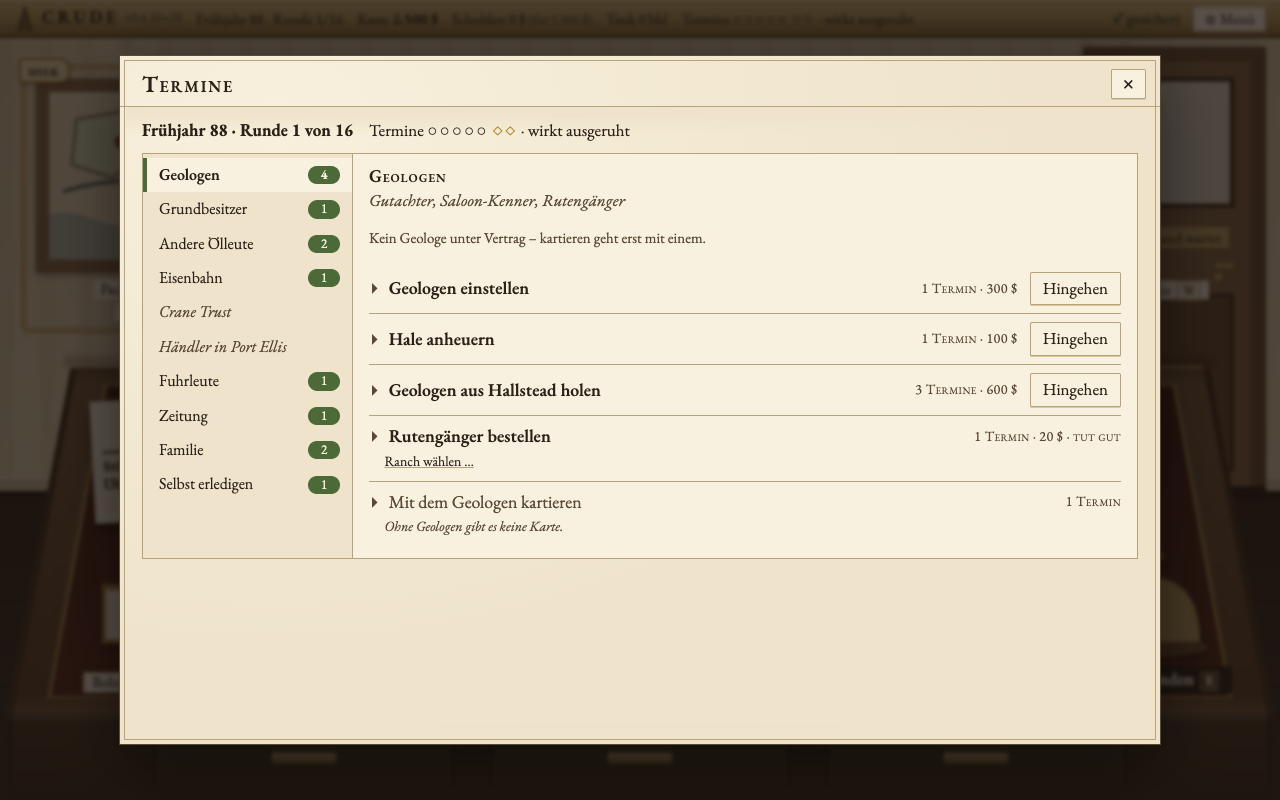
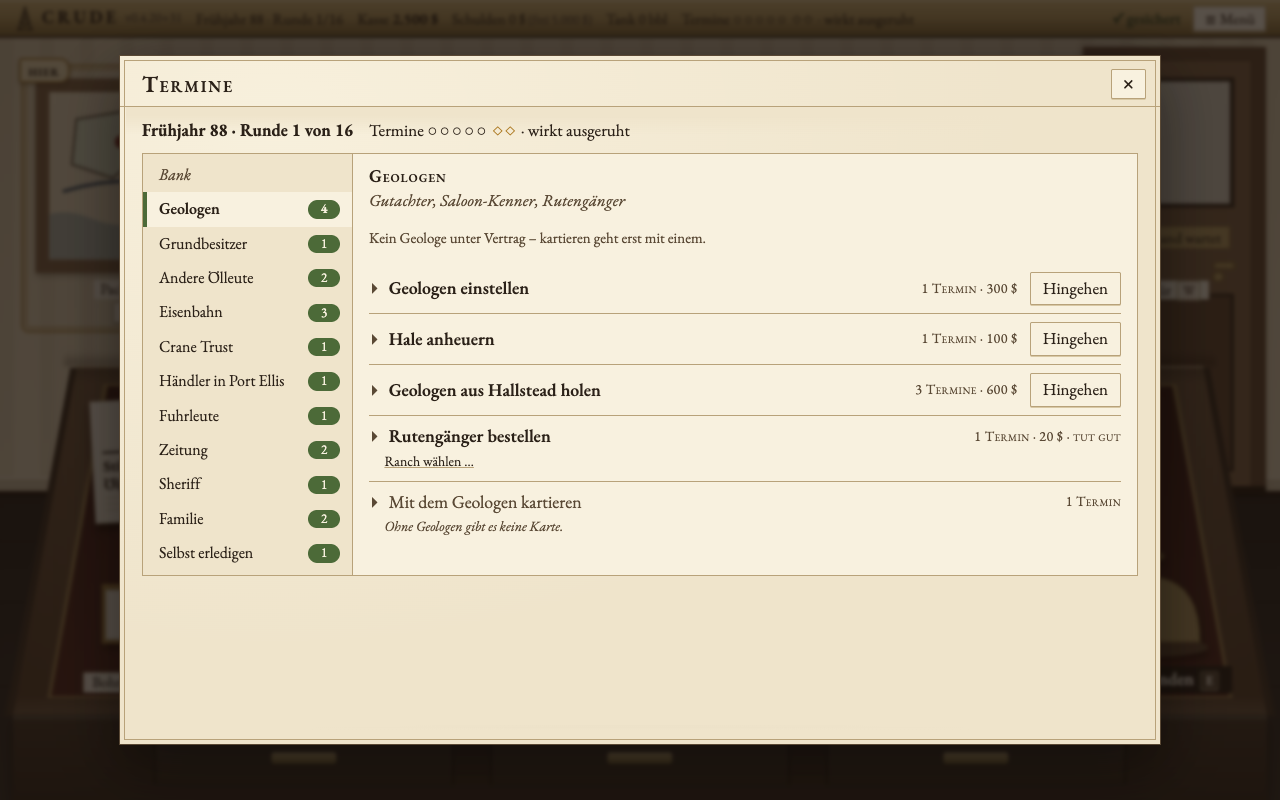
0.4.20+32 Deals im Adressbuch: elf neue Karten in Kapitel 1, Bot-Läufe

diff --git a/tools/screenshots.ts b/tools/screenshots.ts
@@ -293,6 +293,8 @@ const bilder: Bild[] = [
   { name: '35-planungsbrett', state: start, prefs: { 'crude.reiter.termine': 'geologen' }, tasten: ['t'] },
   // Etappe 2: Reiter Markt und Fracht, Verhandlung mit Thorne, Förderbremse auf der Pinnwand.
   { name: '36-brett-markt', state: mitBremse, prefs: { 'crude.reiter.termine': 'oelleute' }, tasten: ['t'] },
+  // 0.4.20+32: neue Deals – Bank und Eisenbahn mit Festtarif/Kontingent.
+  { name: '37b-adressbuch-bank', state: mitBremse, prefs: { 'crude.reiter.termine': 'bank' }, tasten: ['t'] },
   { name: '37-brett-fracht', state: mitBremse, prefs: { 'crude.reiter.termine': 'eisenbahn' }, tasten: ['t'], dann: `document.querySelector('.angebot-name')?.click()`, warte: 400 },
   { name: '38-fracht-thorne', state: mitBremse, prefs: { 'crude.reiter.fracht': 'pipeline' }, tasten: ['f'] },
   { name: '39-pinnwand-bremse', state: mitBremse, dann: KLICK('.objekt-konkurrenz'), warte: 600 },

diff --git a/docs/botlaeufe.md b/docs/botlaeufe.md
@@ -1,6 +1,6 @@
 # Bot-Läufe
 
-Stand: 2026-10-06 · Version 0.4.20+27
+Stand: 2026-10-06 · Version 0.4.20+31
 
 - Partien je Strategie: 1.000
 - Seeds: `bot-0` bis `bot-999` (für jede Strategie dieselben)
@@ -9,16 +9,16 @@ Stand: 2026-10-06 · Version 0.4.20+27
 
 | Strategie | Partien | Bankrottquote | Kapitelziel | Ø Imperiumswert | Siegquote | Ø Bullard-Kasse | Ø Bullard-Quellen | Ø Termine | Ø Spuren für Delaney (Partien mit Spur) |
 | --- | ---: | ---: | ---: | ---: | ---: | ---: | ---: | ---: | ---: |
-| vorsichtig | 1.000 | 0,0 % | 53,4 % | 103.383 $ | 22,8 % | 7.666 $ | 6,0 | 5,0 | 1,52 (100,0 %) |
-| gierig | 1.000 | 10,4 % | 67,0 % | 98.199 $ | 19,4 % | 12.845 $ | 5,5 | 5,0 | 4,99 (100,0 %) |
-| ausgewogen | 1.000 | 2,9 % | 58,5 % | 116.208 $ | 23,4 % | 8.515 $ | 6,1 | 5,0 | 1,20 (35,4 %) |
-| betruegerisch | 1.000 | 0,2 % | 64,7 % | 129.198 $ | 34,3 % | 12.820 $ | 6,2 | 5,0 | 8,48 (100,0 %) |
-| zufaellig | 1.000 | 11,9 % | 0,2 % | 978 $ | 0,0 % | 27.417 $ | 8,5 | 5,0 | 5,05 (100,0 %) |
+| vorsichtig | 1.000 | 0,1 % | 52,0 % | 102.997 $ | 25,0 % | 7.811 $ | 6,1 | 5,0 | 1,83 (100,0 %) |
+| gierig | 1.000 | 9,2 % | 65,3 % | 97.572 $ | 20,4 % | 12.582 $ | 5,6 | 5,0 | 4,99 (100,0 %) |
+| ausgewogen | 1.000 | 2,0 % | 55,1 % | 109.812 $ | 20,8 % | 8.678 $ | 6,2 | 5,0 | 1,33 (37,9 %) |
+| betruegerisch | 1.000 | 0,2 % | 63,6 % | 126.199 $ | 33,7 % | 12.821 $ | 6,2 | 4,8 | 8,22 (100,0 %) |
+| zufaellig | 1.000 | 11,9 % | 0,2 % | 979 $ | 0,0 % | 27.402 $ | 8,5 | 5,0 | 5,05 (100,0 %) |
 
 - **vorsichtig:** bohrt und kauft nur, wenn danach noch die Rücklage in der Kasse bleibt, kauft nur Optionen, deren Bonus er danach auch zahlen kann, nimmt nie selbst einen Kredit; tiefer (höchstens bis Stufe 2) nur, wenn der Geologe mindestens das 1,5-Fache der Gewinnschwelle gibt.
 - **gierig:** bohrt jede Pacht, bohrt tiefer schon ab dem 0,6-Fachen der Gewinnschwelle (gibt auf, wenn auch ein Kredit nicht mehr reicht), pachtet die beste bezahlbare Prognose, solange Kasse und Bankrahmen reichen und höchstens so viele Pachten ungebohrt sind, wie in balance.yaml steht; leiht fehlendes Geld und behält Bargeld für den Verzögerungszins.
 - **ausgewogen (Standard-Bot):** pachtet die beste Prognose ab 40,0 % Fundchance, bohrt tiefer bis Stufe 3, wenn der Geologe mindestens das 1-Fache der Gewinnschwelle gibt (Spielspaß K1: „lohnt ab“ im Ranch-Fenster), behält 300 $ Rücklage und leiht, aber höchstens 50,0 % des Bankrahmens.
-- **betrügerisch (GDD §17):** bohrt, pachtet, transportiert und baut aus wie der Standard-Bot, zieht aber jeden schmutzigen Hebel: Förderbremse mit Organisatoren-Klausel – und verkauft sie an Crane, sobald dessen Angebot reicht (Verrat) –, Gerücht „Quellen versiegen“, Thornes Sondertarif mit Bluff, Händler-Liefervertrag nie; Karten in balance.yaml bots.plans.cheat {"cartel":true,"contract":false,"rumour":true,"crane":true,"thorne":true,"brennan":false,"pool":true,"bluff":true,"betray":true}. Bei Briefen zählt ihm jeder Schwerepunkt einer Spur für Delaney 300 $ (× Faktor der Briefe) – er nimmt die schmutzige Antwort, wenn sie nicht klar weniger bringt.
+- **betrügerisch (GDD §17):** bohrt, pachtet, transportiert und baut aus wie der Standard-Bot, zieht aber jeden schmutzigen Hebel: Förderbremse mit Organisatoren-Klausel – und verkauft sie an Crane, sobald dessen Angebot reicht (Verrat) –, Gerücht „Quellen versiegen“, Thornes Sondertarif mit Bluff, Händler-Liefervertrag nie; Karten in balance.yaml bots.plans.cheat {"cartel":true,"contract":false,"rumour":true,"crane":true,"thorne":true,"brennan":false,"pool":true,"bluff":true,"betray":true,"guard":true,"bank":true,"quota":true,"advance":false,"royalty":true,"interview":false}. Bei Briefen zählt ihm jeder Schwerepunkt einer Spur für Delaney 300 $ (× Faktor der Briefe) – er nimmt die schmutzige Antwort, wenn sie nicht klar weniger bringt.
 - **zufällig:** wählt jede Runde einige erlaubte Aktionen per Zufall und beantwortet Ereignisse zufällig.
 - **Spuren für Delaney:** Ø Schwere der Merkzeichen aus balance.yaml investigation.traces am Kapitelende (Moss' Papier, Silas betrogen, Silas als Kronzeuge, gekaufter Courier-Bericht, Vales Geld, Thornes Exklusivvertrag), in Klammern der Anteil der Partien mit mindestens einer Spur. Die ehrlichen Bots wiegen jeden Schwerepunkt als Risiko (bots.events.*.traceCost: vorsichtig 2.000 $, gierig 200 $, ausgewogen 1.000 $ je Punkt, × Faktor der Briefe) und nehmen eine schmutzige Antwort nur, wenn sie klar mehr bringt.
 - **Erkundung (Etappe 1):** Die planenden Bots reiten vor den Briefen übers Land (Karte „Übers Land reiten“), solange sie zu wenige bezahlbare freie Ranches mit guter Prognose kennen (balance.yaml bots.explore). Prognosen gibt es nur, wo Jacob etwas weiß.
@@ -33,15 +33,15 @@ Anteil an allen verkauften Barrel (gesamt und je Strategie). Erlös = was nach F
 
 | Weg | Anteil Barrel | vorsichtig | gierig | ausgewogen | betruegerisch | zufaellig | Ø Erlös je bbl | Ø Anlagen/Fixkosten je bbl | Ø Gewinn je bbl |
 | --- | ---: | ---: | ---: | ---: | ---: | ---: | ---: | ---: | ---: |
-| Mietfuhrwerk | 6,5 % | 0,6 % | 18,5 % | 1,8 % | 2,6 % | 14,1 % | 0,25 $ | 0,00 $ | 0,25 $ |
-| Bahn (Thorne) | 46,3 % | 77,2 % | 22,2 % | 27,5 % | 63,5 % | 74,6 % | 0,38 $ | 0,00 $ | 0,37 $ |
-| Eigene Fuhrwerke | 25,8 % | 16,7 % | 18,5 % | 39,2 % | 29,6 % | 11,2 % | 0,51 $ | 0,14 $ | 0,37 $ |
-| Pipeline | 21,4 % | 5,4 % | 40,8 % | 31,5 % | 4,2 % | 0,0 % | 0,51 $ | 0,06 $ | 0,45 $ |
-| davon an den Händler | 14,2 % | 30,7 % | 14,2 % | 6,4 % | 6,8 % | 23,6 % | 0,58 $ | 0,04 $ | 0,54 $ |
+| Mietfuhrwerk | 7,3 % | 0,6 % | 19,2 % | 3,2 % | 2,9 % | 13,8 % | 0,24 $ | 0,00 $ | 0,24 $ |
+| Bahn (Thorne) | 46,2 % | 78,2 % | 22,5 % | 27,6 % | 60,4 % | 75,0 % | 0,41 $ | 0,00 $ | 0,41 $ |
+| Eigene Fuhrwerke | 28,7 % | 16,5 % | 19,1 % | 50,4 % | 32,5 % | 11,2 % | 0,52 $ | 0,14 $ | 0,38 $ |
+| Pipeline | 17,8 % | 4,6 % | 39,3 % | 18,8 % | 4,2 % | 0,0 % | 0,51 $ | 0,06 $ | 0,45 $ |
+| davon an den Händler | 14,7 % | 31,0 % | 14,3 % | 7,3 % | 6,8 % | 23,5 % | 0,60 $ | 0,04 $ | 0,56 $ |
 
-Pipeline lief in: vorsichtig 14,3 % (mit Kapitelziel 24,2 %), gierig 66,8 % (mit Kapitelziel 81,8 %), ausgewogen 51,4 % (mit Kapitelziel 67,4 %), betruegerisch 10,9 % (mit Kapitelziel 14,1 %), zufaellig 0,0 % (mit Kapitelziel 0,0 %).
+Pipeline lief in: vorsichtig 11,5 % (mit Kapitelziel 20,0 %), gierig 64,7 % (mit Kapitelziel 80,7 %), ausgewogen 33,1 % (mit Kapitelziel 42,8 %), betruegerisch 9,6 % (mit Kapitelziel 12,6 %), zufaellig 0,0 % (mit Kapitelziel 0,0 %).
 
-Feldkauf (Ø je Partie, balance.yaml bots.buyout): vorsichtig 0,00 Angebote, 0,00 Käufe; gierig 1,17 Angebote, 0,91 Käufe; ausgewogen 0,20 Angebote, 0,14 Käufe; betruegerisch 0,17 Angebote, 0,11 Käufe; zufaellig 0,00 Angebote, 0,00 Käufe.
+Feldkauf (Ø je Partie, balance.yaml bots.buyout): vorsichtig 0,00 Angebote, 0,00 Käufe; gierig 1,00 Angebote, 0,77 Käufe; ausgewogen 0,14 Angebote, 0,09 Käufe; betruegerisch 0,19 Angebote, 0,13 Käufe; zufaellig 0,00 Angebote, 0,00 Käufe.
 
 - **Transport-Charakter** (balance.yaml bots.transport): vorsichtig {"trader":"never","teams":"overflow","tanks":true,"pipelinePayback":2,"thorne":"exclusive","guards":"always","holdShare":0,"margin":true}; gierig {"trader":"always","teams":"overflow","tanks":true,"pipelinePayback":1,"thorne":"refuse","guards":"never","holdShare":0.5,"margin":false}; ausgewogen {"trader":"calc","teams":"cheaper","tanks":true,"pipelinePayback":1.5,"thorne":"calc","guards":"enemies","holdShare":0,"margin":true}; betrügerisch wie ausgewogen; zufällig: mit 15,0 % je Runde eine zufällige Anschaffung, verkauft zufällig auch an den Händler.
 
@@ -51,15 +51,15 @@ Je Partie: Ø höchste Zahl Türme zugleich (Silas' Turm mitgezählt), Ø Quelle
 
 | Bot | Ø Bohrtürme (höchstens zugleich) | Ø Pumpen | Ø weitere Bohrlöcher | Anteil ausgebauter Quellen | Ø Imperiumswert | Bankrottquote |
 | --- | ---: | ---: | ---: | ---: | ---: | ---: |
-| vorsichtig | 1,00 | 0,06 | 1,09 | 20,8 % | 103.383 $ | 0,0 % |
-| gierig | 1,89 | 0,41 | 2,97 | 42,5 % | 98.199 $ | 10,4 % |
-| ausgewogen | 1,00 | 0,54 | 1,04 | 26,6 % | 116.208 $ | 2,9 % |
-| betruegerisch | 1,00 | 0,56 | 0,89 | 22,8 % | 129.198 $ | 0,2 % |
-| zufaellig | 1,00 | 0,01 | 0,01 | 27,1 % | 978 $ | 11,9 % |
-| ausgewogen, nie ausbauen | 1,00 | 0,00 | 0,00 | 0,0 % | 101.197 $ | 1,4 % |
-| ausgewogen, alles ausbauen | 2,31 | 5,59 | 3,62 | 94,4 % | 29.551 $ | 55,5 % |
+| vorsichtig | 1,00 | 0,05 | 1,13 | 22,0 % | 102.997 $ | 0,1 % |
+| gierig | 1,89 | 0,40 | 2,92 | 43,0 % | 97.572 $ | 9,2 % |
+| ausgewogen | 1,00 | 0,46 | 1,10 | 27,1 % | 109.812 $ | 2,0 % |
+| betruegerisch | 1,00 | 0,56 | 0,89 | 23,0 % | 126.199 $ | 0,2 % |
+| zufaellig | 1,00 | 0,01 | 0,01 | 27,1 % | 979 $ | 11,9 % |
+| ausgewogen, nie ausbauen | 1,00 | 0,00 | 0,00 | 0,0 % | 96.358 $ | 0,9 % |
+| ausgewogen, alles ausbauen | 2,28 | 5,27 | 3,42 | 93,7 % | 27.407 $ | 55,6 % |
 
-„Alles ausbauen“ schlägt den Standard-Bot in 13,2 %, „nie ausbauen“ in 39,0 % der Seeds mit unterschiedlichem Ausgang.
+„Alles ausbauen“ schlägt den Standard-Bot in 12,8 %, „nie ausbauen“ in 40,0 % der Seeds mit unterschiedlichem Ausgang.
 
 - **Ausbau-Charakter** (balance.yaml bots.invest): vorsichtig {"pumpPayback":2,"wellPayback":3,"rigs":1,"rent":false,"steam":false,"rods":true}; gierig {"pumpPayback":2,"wellPayback":4,"rigs":2,"rent":true,"steam":true,"rods":false}; ausgewogen {"pumpPayback":3,"wellPayback":4,"rigs":1,"rent":false,"steam":true,"rods":true}; betrügerisch wie ausgewogen.
 
@@ -69,9 +69,9 @@ Bankrottquote je Strategie, getrennt nach Seeds, in deren Welt während des Kapi
 
 | Strategie | Seeds mit Kreditkrise | Bankrottquote dort | Seeds ohne | Bankrottquote dort |
 | --- | ---: | ---: | ---: | ---: |
-| vorsichtig | 81 | 0,0 % | 919 | 0,0 % |
-| gierig | 81 | 19,8 % | 919 | 9,6 % |
-| ausgewogen | 81 | 8,6 % | 919 | 2,4 % |
+| vorsichtig | 81 | 1,2 % | 919 | 0,0 % |
+| gierig | 81 | 12,3 % | 919 | 8,9 % |
+| ausgewogen | 81 | 8,6 % | 919 | 1,4 % |
 | betruegerisch | 81 | 2,5 % | 919 | 0,0 % |
 | zufaellig | 81 | 9,9 % | 919 | 12,1 % |
 
@@ -81,20 +81,20 @@ Bankrottquote je Strategie, getrennt nach Seeds, in deren Welt während des Kapi
 
 | Haltung | Sprünge | Ø Imperium | p10 | Median | p90 | Ø Kasse | Förderung nachher ÷ vorher (Median) | Ø Schulden | pleite | Kreditkündigung | Notverkauf | Nachbarbezirk |
 | --- | ---: | ---: | ---: | ---: | ---: | ---: | ---: | ---: | ---: | ---: | ---: | ---: |
-| wagemutig | 900 | 363.859 $ | 0 $ | 343.778 $ | 710.687 $ | 273.042 $ | 0,84 | 22.424 $ | 10,0 % | 26,7 % | 11,3 % | 85,2 % |
-| ausgewogen | 900 | 341.137 $ | 0 $ | 329.615 $ | 681.144 $ | 247.442 $ | 0,65 | 4.626 $ | 7,0 % | 18,4 % | 8,0 % | 78,7 % |
-| vorsichtig | 900 | 272.287 $ | 0 $ | 201.185 $ | 645.703 $ | 201.920 $ | 0,25 | 1.193 $ | 6,0 % | 9,8 % | 7,3 % | 59,6 % |
+| wagemutig | 900 | 339.213 $ | 0 $ | 331.980 $ | 667.757 $ | 251.783 $ | 0,86 | 20.848 $ | 11,7 % | 28,1 % | 13,4 % | 81,4 % |
+| ausgewogen | 900 | 317.729 $ | 0 $ | 311.335 $ | 653.722 $ | 227.904 $ | 0,64 | 4.296 $ | 8,7 % | 18,8 % | 10,0 % | 76,1 % |
+| vorsichtig | 900 | 249.296 $ | 0 $ | 167.469 $ | 593.713 $ | 183.503 $ | 0,20 | 1.316 $ | 8,3 % | 11,8 % | 10,7 % | 54,7 % |
 
 | Familie | Ø Imperium | Ø Ruth | mit Clara |
 | --- | ---: | ---: | ---: |
-| die Firma zuerst | 400.504 $ | 64 | 98,0 % |
-| wie bisher | 357.011 $ | 90 | 99,4 % |
-| viel Zeit zu Hause | 219.768 $ | 100 | 99,9 % |
+| die Firma zuerst | 374.241 $ | 64 | 96,4 % |
+| wie bisher | 330.868 $ | 90 | 98,6 % |
+| viel Zeit zu Hause | 201.129 $ | 100 | 99,6 % |
 
 | Haltung | Seeds mit Bankpanik-Weiche | Ø Pump − Tilgen | Pump schlechter | pleite Pump / Tilgen | Notverkauf Pump / Tilgen |
 | --- | ---: | ---: | ---: | ---: | ---: |
-| wagemutig | 38 | -44.669 $ | 81,6 % | 13,2 % / 10,5 % | 15,8 % / 13,2 % |
-| ausgewogen | 38 | -32.808 $ | 81,6 % | 7,9 % / 5,3 % | 10,5 % / 10,5 % |
+| wagemutig | 40 | -32.774 $ | 77,5 % | 10,0 % / 10,0 % | 15,0 % / 12,5 % |
+| ausgewogen | 40 | -20.513 $ | 70,0 % | 7,5 % / 7,5 % | 10,0 % / 10,0 % |
 
 ## Zielwerte Kapitel 1
 
@@ -102,21 +102,21 @@ Toleranzbereiche stehen in balance.yaml unter bots.targets; gemessen wird in src
 
 | Kennzahl | Ziel (Quelle) | Toleranz | Ist | im Rahmen |
 | --- | --- | ---: | ---: | :---: |
-| Höchste Siegquote einer Strategie | GDD §17: keine Einzelstrategie gewinnt in mehr als 40 % | 0,0 % – 40,0 % | 34,3 % | ja |
-| Pleitequote Standard-Bot (ausgewogen) | Kapitel 1 ist der Einstieg (GDD §17: Kapitel 4 übersteht er in 55–70 %) | 0,0 % – 15,0 % | 2,9 % | ja |
-| Pleitequote gierig | GDD §15: wer im Boom zu viele Schulden macht, stirbt (4.20: in der Kreditkrise kündigt die Bank) | 3,0 % – 45,0 % | 10,4 % | ja |
-| Ø Imperium vorsichtig ÷ bester Ø der Mutigeren | GDD §15: wer nie Schulden macht, wird überholt (unter 1) | 0,00 – 0,95 | 0,89 | ja |
-| Kapitelziel Standard-Bot (ausgewogen) | Kapitelprüfung erreichbar, aber nicht geschenkt | 20,0 % – 70,0 % | 58,5 % | ja |
-| Kleine Funde mit 50–500 bbl/Tag | GDD §15: Anfangsrate 50–500 bbl/Tag | 90,0 % – 100,0 % | 93,9 % | ja |
-| Ø Anfangsrate Gusher ÷ kleiner Fund | GDD §15: Gusher deutlich mehr | 2,00 – 20,00 | 4,91 | ja |
-| Gemessener Rückgang je Quartal | GDD §15: 8–15 % | 8,0 % – 15,0 % | 14,0 % | ja |
+| Höchste Siegquote einer Strategie | GDD §17: keine Einzelstrategie gewinnt in mehr als 40 % | 0,0 % – 40,0 % | 33,7 % | ja |
+| Pleitequote Standard-Bot (ausgewogen) | Kapitel 1 ist der Einstieg (GDD §17: Kapitel 4 übersteht er in 55–70 %) | 0,0 % – 15,0 % | 2,0 % | ja |
+| Pleitequote gierig | GDD §15: wer im Boom zu viele Schulden macht, stirbt (4.20: in der Kreditkrise kündigt die Bank) | 3,0 % – 45,0 % | 9,2 % | ja |
+| Ø Imperium vorsichtig ÷ bester Ø der Mutigeren | GDD §15: wer nie Schulden macht, wird überholt (unter 1) | 0,00 – 0,95 | 0,94 | ja |
+| Kapitelziel Standard-Bot (ausgewogen) | Kapitelprüfung erreichbar, aber nicht geschenkt | 20,0 % – 70,0 % | 55,1 % | ja |
+| Kleine Funde mit 50–500 bbl/Tag | GDD §15: Anfangsrate 50–500 bbl/Tag | 90,0 % – 100,0 % | 94,6 % | ja |
+| Ø Anfangsrate Gusher ÷ kleiner Fund | GDD §15: Gusher deutlich mehr | 2,00 – 20,00 | 4,94 | ja |
+| Gemessener Rückgang je Quartal | GDD §15: 8–15 % | 8,0 % – 15,0 % | 13,8 % | ja |
 | Trefferquote blinde Wildcat-Bohrung (Randlage, 300 m) | GDD §15: etwa 1 von 5 bis 1 von 10 | 5,0 % – 25,0 % | 14,5 % | ja |
 | Ø Termine je Runde (Standard-Bot) | GDD §15: 5 je Quartal | 4,50 – 5,00 | 5,00 | ja |
-| Höchster Anteil eines Transportwegs an allen verkauften Barrel | GDD §6: kein Weg dominiert, jeder hat seinen Preis | 0,0 % – 75,0 % | 46,3 % | ja |
-| Partien mit Kapitelziel, in denen eine Pipeline läuft | Pipeline ist eine Wahl, kein Pflichtweg | 0,0 % – 80,0 % | 47,7 % | ja |
-| Ausgebaute Quellen (Pumpe oder weiteres Bohrloch), planende Bots | Ausbau lohnt für gute Quellen, nicht für jede | 5,0 % – 70,0 % | 28,8 % | ja |
-| Ø Imperium Standard-Bot ÷ derselbe Bot ohne Ausbau | Investitionen in gute Quellen zahlen sich aus (über 1) | 1,02 – 10,00 | 1,15 | ja |
-| Seeds, in denen „alles ausbauen“ den Standard-Bot schlägt | Blind alles ausbauen ist keine Siegformel | 0,0 % – 50,0 % | 13,2 % | ja |
+| Höchster Anteil eines Transportwegs an allen verkauften Barrel | GDD §6: kein Weg dominiert, jeder hat seinen Preis | 0,0 % – 75,0 % | 46,2 % | ja |
+| Partien mit Kapitelziel, in denen eine Pipeline läuft | Pipeline ist eine Wahl, kein Pflichtweg | 0,0 % – 80,0 % | 40,1 % | ja |
+| Ausgebaute Quellen (Pumpe oder weiteres Bohrloch), planende Bots | Ausbau lohnt für gute Quellen, nicht für jede | 5,0 % – 70,0 % | 29,4 % | ja |
+| Ø Imperium Standard-Bot ÷ derselbe Bot ohne Ausbau | Investitionen in gute Quellen zahlen sich aus (über 1) | 1,02 – 10,00 | 1,14 | ja |
+| Seeds, in denen „alles ausbauen“ den Standard-Bot schlägt | Blind alles ausbauen ist keine Siegformel | 0,0 % – 50,0 % | 12,8 % | ja |
 
 <!-- Ab hier von Hand geschrieben: npm run bots lässt den Rest stehen. -->
 

diff --git a/CLAUDE.md b/CLAUDE.md
@@ -64,6 +64,7 @@
 - 0.4.20+29 Termine als Adressbuch (Etappe 1 von 3, Philipp: Fenster „viel zu voll und unverständlich“): links Stellen statt Reiter (Geologen, Grundbesitzer, Andere Ölleute, Eisenbahn, Crane Trust, Händler, Fuhrleute, Zeitung, Familie, Selbst erledigen – `contacts` in content/plans.yaml, `contactOf` in src/sim/planContent.ts, Prüfung: jede Karte bei genau einer Stelle), rechts die Angebote als Zeilen (Name, Kosten, Knopf; Text/Risiko/Ziel aufgeklappt); oben nur freie Termine und Gebuchtes (× = zurücknehmen), Wochenbrett Mo–Fr entfällt. `SHOT_NUR` löscht die übrigen Bildschirmfotos nicht mehr. Als Nächstes Etappe 2: neue Deals (Bank: Zins nachverhandeln/Stundung/Rahmen gegen Pfand; Eisenbahn: Festtarif/Extra-Waggons; Crane: Terminverkauf/Vorschuss; Händler: Hafentank; Fuhrleute: Eilfuhre; Ölleute: Turm verleihen; Grundbesitzer: Förderzins nachverhandeln; Zeitung: Interview; Sheriff: Wache), Etappe 3: Telefon ab Kapitel 2 mit eigenen Stellen.
 - 0.4.20+30 Spielspaß-Durchgang Kapitel 2 (Befunde eines Lese-Agenten, je System: Entscheidung? erklärt? Folge sichtbar?): Fernleitung zeigt den Nutzen („spart … $ je Runde, bezahlt in … Runden“, `trunkSavings`), Börsengang-Brief nennt je Wahl die Folgen (`ipoConsequenceText`: Erlös, Ratssitze, Dividende, Thorne ab 40 % Fremdanteil, Misstrauensvotum unter 50 %), Aufsichtsrat zeigt Treue-Folgen (`demandHints`) und einen Knopf „Rat umstimmen“ statt sieben, Diplomatie-Angebote mit $ je Runde und Spur-Hinweis (`estimateOffer`), Forschung: je Kapitel eine Richtung (erste Förderung legt sie fest, Lizenzen fremder Richtungen × `research.licenseOffDirection` 1,5), Patente erreichbar (worldAt 18–25), Abschluss in der Zeitung (`research_patent`/`research_done`); Spielstand Format 26. Verwalter-Bericht trennt alte/neue Quellen, Rundgang K2 nennt 80.000 $ (Test gegen balance.yaml). Texte aus Fernleitung, Schattenbuch, Personal, Werkstatt in content/ (de/en). Messung Börsengang/Personal/Werkstatt-Varianten bei bot runner.
 - 0.4.20+31 Bots kaufen Felder (`buyoutTurn` in bots.ts, `bots.buyout` je Charakter: Angebot offer × Bullards Preis für die Ranch mit dem besten Ölfluss je Dollar, nur bis maxPrice × Ölfluss und mit Reserve; Zeile „Feldkauf“ im Bot-Bericht). k24 (PC, 1.000): gierig 0,91 Käufe je Partie, ausgewogen 0,14, betrügerisch 0,11, vorsichtig keine; Kapitel 1 alle Zielwerte im Rahmen (Kapitelziel ausgewogen 58,5 %). Kampagne gegenüber k23 (ohne Startquelle/Feldkauf): Kapitelziel 2 68,6 → 55,9 %, Kapitelziel 3 50,7 → 44,5 % – laut bot runner vor allem die Startquelle (schwächerer K1-Start), nicht der Feldkauf; Trennlauf auf 047fc19 beauftragt.
+- 0.4.20+32 Deals im Adressbuch (Etappe 2): elf neue Karten in Kapitel 1 (`src/sim/deals.ts`, Zahlen `deals` in balance.yaml, Zustand `state.deals`, Spielstand Format 27). Bank (neue Stelle): Zins nachverhandeln (Chance nach Rating, −1 Punkt auf alle Bankkredite), Zinsen stunden (Zinsen × 1,5 auf die Schuld), Bohrturm verpfänden (+2.500 $ Rahmen, nach versäumter Zahlung gehört er der Bank → Mietturm). Eisenbahn: Festtarif (eingefroren, mind. 4.000 bbl/Runde per Bahn), Frachtkontingent (vorab, 20 % billiger, 6 Runden). Crane: Vorschuss (85 % sofort, Lieferung in 2 Runden, sonst Rest × 1,3). Händler: Großabnahme (+5.000 bbl diese Runde). Andere Ölleute: Turm verleihen (Miete, 20 % beschädigt). Grundbesitzer: Förderzins nachverhandeln (Einmalzahlung, −3 Punkte). Zeitung: Interview (Ruf bei den Wildcattern ±0,06). Sheriff (neue Stelle): Wache gegen die neuen Öldiebe (Kapitel 1, 6 % je Runde ab 3.000 bbl, 20 % weg). Terminverkauf bei Crane und Eilfuhre gestrichen (doppelt zum Liefervertrag bzw. Bahn nie voll). Adressbuch zeigt „Läuft:“ (`dealsRunning`). Bots: Flags guard/bank/quota/advance/royalty/interview in `bots.plans`. `HANDLERS` in plans.ts jetzt `handlers()` (Zirkel-Import). Bot-Läufe Kapitel 1 (1.000): alle Zielwerte im Rahmen; ausgewogen Ø 116k → 110k $, Kapitelziel 58,5 → 55,1 % (Öldiebe; wie oft die Bots welche Deals nutzen und ob sie sich lohnen, ist noch nicht gemessen). Als Nächstes Etappe 3: Telefon ab Kapitel 2.
 - Bot-Läufe: `npm run bots` (schreibt docs/botlaeufe.md).
 - Tester-Build: `npm run release` → `release/crude-<version>.zip` (index.html im Wurzelverzeichnis, relative Pfade; release/ nicht committen). Feedback-Link in `content/tester.yaml` (leer = kein Knopf). Debug-Bereich im Build nur mit `?debug=1`.
 - Starten: `npm run dev`; Debug-Ansicht über `?seed=abc&debug=1` in der Adresse (mit Seed startet immer eine frische Welt, ohne Seed der gespeicherte Stand).
